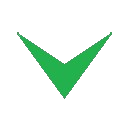
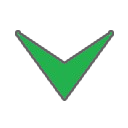
Adjust duplicate skeleton playerclass bug, arrow, unused DI.

Changed region(s): [[0.0938, 0.2188, 0.9062, 0.8125]]

diff --git a/DuelOfFates/core/src/no/ntnu/dof/model/di/PlayerClassModule.java b/DuelOfFates/core/src/no/ntnu/dof/model/di/PlayerClassModule.java
@@ -54,31 +54,18 @@ public class PlayerClassModule {
     }
 
     @Provides
-    @Named("tutorialPlayerClass")
-    public PlayerClass provideTutorialPlayerClass(@Named("tutorialDeck") Deck deck) {
-        return PlayerClass.builder()
-                .name("skeleton")
-                .deck(deck)
-                .maxHealth(new Health(60))
-                .maxArmor(new Armor(10))
-                .maxMana(new Mana(6))
-                .build();
-    }
-
-    @Provides
     @Named("listPlayerClasses")
     public List<PlayerClass> providePlayerClasses(
             @Named("knightPlayerClass") PlayerClass knightPlayerClass,
             @Named("magePlayerClass") PlayerClass magePlayerClass,
-            @Named("skeletonPlayerClass") PlayerClass skeletonPlayerClass,
-            @Named("tutorialPlayerClass") PlayerClass tutorialPlayerClass) {
+            @Named("skeletonPlayerClass") PlayerClass skeletonPlayerClass
+    ) {
 
         final ArrayList<PlayerClass> playerClasses = new ArrayList<>();
 
         playerClasses.add(knightPlayerClass);
         playerClasses.add(magePlayerClass);
         playerClasses.add(skeletonPlayerClass);
-        playerClasses.add(tutorialPlayerClass);
 
         return playerClasses;
     }

diff --git a/DuelOfFates/core/src/no/ntnu/dof/view/entity/view/GameView.java b/DuelOfFates/core/src/no/ntnu/dof/view/entity/view/GameView.java
@@ -22,7 +22,7 @@ public class GameView extends Group {
         background = new Image("background.png", 1.0f);
         this.addActor(background);
 
-        activePlayerView = new Image("arrow.png", 0.15f);
+        activePlayerView = new Image("arrow.png", 0.10f);
         this.addActor(activePlayerView);
 
         opponentPlayerView = new OpponentPlayerView(game.getOpponent());
@@ -36,7 +36,7 @@ public class GameView extends Group {
     @Override
     public void draw(Batch batch, float parentAlpha) {
         if(game.getNextPlayer() == game.getHost()) {
-            activePlayerView.setPosition(hostPlayerView.getX() + hostPlayerView.getGraphics().getWidth() / 2 - activePlayerView.getWidth() / 2, hostPlayerView.getY() + hostPlayerView.getGraphics().getHeight());
+            activePlayerView.setPosition(hostPlayerView.getX() + hostPlayerView.getGraphics().getWidth() / 2 - activePlayerView.getWidth() / 1.5f, hostPlayerView.getY() + hostPlayerView.getGraphics().getHeight());
             hostPlayerView.addEndTurnButton();
         }
         else {

diff --git a/DuelOfFates/core/src/no/ntnu/dof/controller/gameplay/TutorialController.java b/DuelOfFates/core/src/no/ntnu/dof/controller/gameplay/TutorialController.java
@@ -34,11 +34,11 @@ public class TutorialController {
 
 
     public TutorialController() {
-        ClickPlayerController hostController = new ClickPlayerController();
-        HostPlayerView.provideClickListener(hostController);
-
         TutorialComponent tutorialComponent = DaggerTutorialComponent.create();
         tutorialComponent.inject(this);
+
+        ClickPlayerController hostController = new ClickPlayerController();
+        HostPlayerView.provideClickListener(hostController);
 
         this.screen = new TutorialScreen(this.game);
 

diff --git a/DuelOfFates/core/src/no/ntnu/dof/view/entity/view/HealthBarView.java b/DuelOfFates/core/src/no/ntnu/dof/view/entity/view/HealthBarView.java
@@ -26,7 +26,7 @@ public class HealthBarView extends Group {
         this.setWidth(width);
         this.setHeight((float) (Gdx.graphics.getHeight()*0.05));
 
-        Skin skin = new Skin(Gdx.files.internal("uiskin.json"));
+        Skin skin = new Skin(Gdx.files.internal("UISkin.json"));
         skin.setScale(0.6f);
         this.healthLabel = new Label( player.getHealth().getValue() + "/" + (player.getPlayerClass().getMaxHealth().getValue()), skin, "default");
         healthLabel.setBounds(getX(), getY(), getWidth(), getHeight());

diff --git a/DuelOfFates/core/src/no/ntnu/dof/view/screens/game/TutorialScreen.java b/DuelOfFates/core/src/no/ntnu/dof/view/screens/game/TutorialScreen.java
@@ -22,7 +22,7 @@ public class TutorialScreen implements Screen {
     private final GameView gameView;
     private Label activeLabel;
     private HighlightingArea HighlightedArea;
-    private final Skin skin = new Skin(Gdx.files.internal("uiskin.json"));
+    private final Skin skin = new Skin(Gdx.files.internal("UISkin.json"));
     private ArrayList<Label> tutorialLabels;
 
     public TutorialScreen(Game game) {
